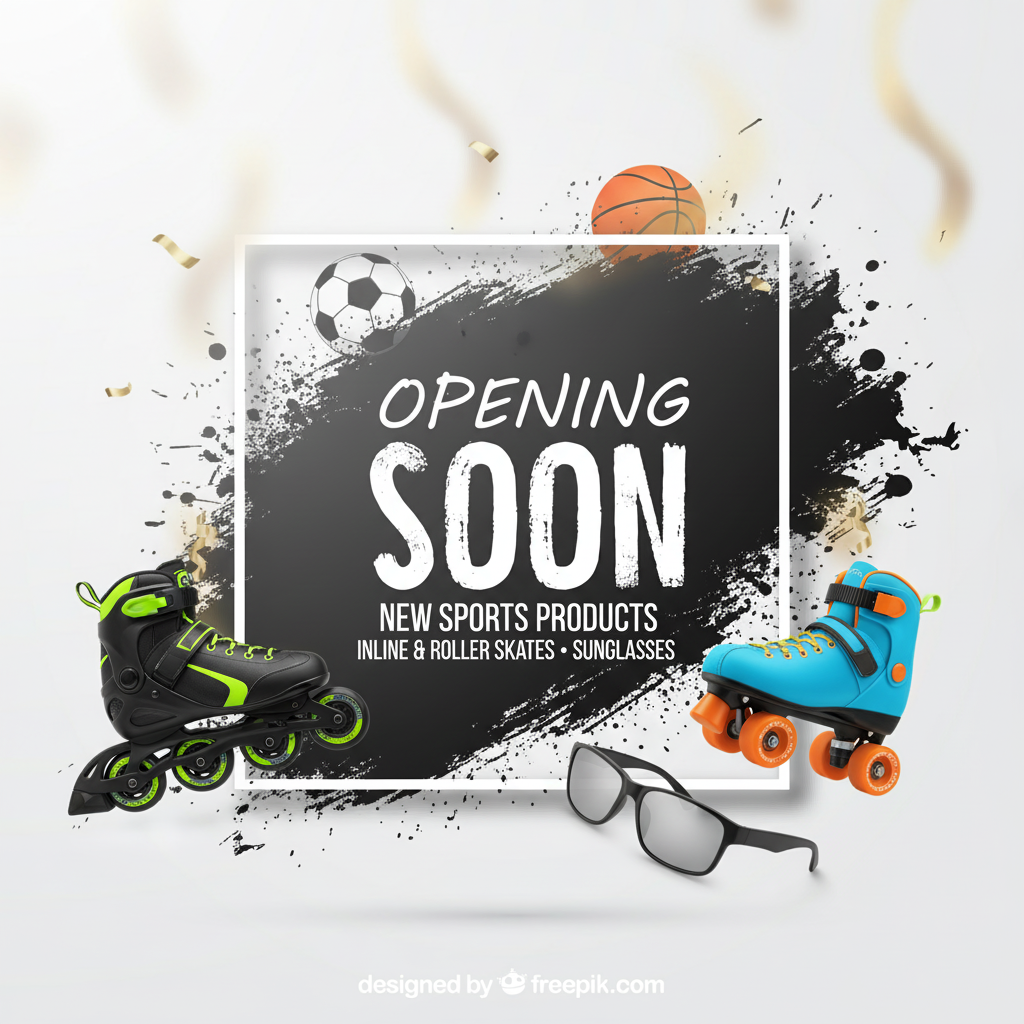
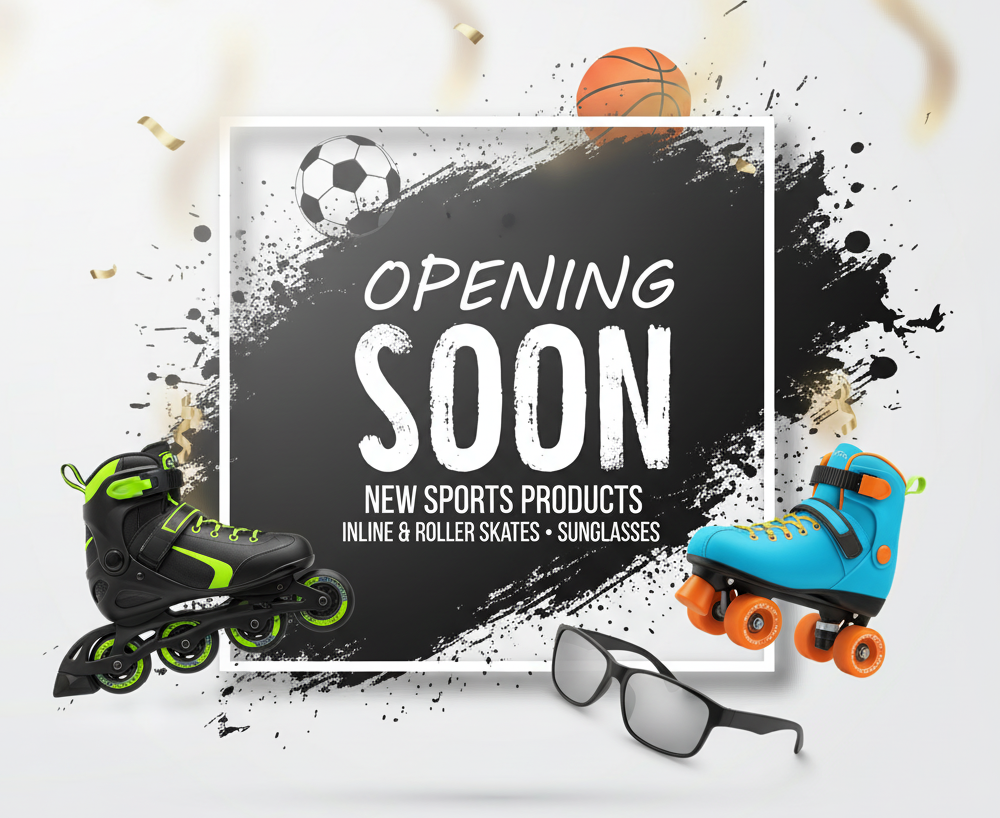
Merge pull request #14 from Dw-Innovationpvt/enhanced-navbar
Navbar Enhanced

Pull request: Navbar Enhanced
Navbar Enhanced, User Profile Enhanced

diff --git a/Frontend/src/components/Navbar.jsx b/Frontend/src/components/Navbar.jsx
@@ -203,49 +203,36 @@ export default function Navbar() {
       </div>
 
       {/* Navbar */}
-      <nav className="bg-white shadow-md px-4 md:px-12 flex justify-between items-center py-3 sticky top-0 z-50 font-[var(--font-raleway)]">
+      <nav className="bg-gradient-to-r from-blue-400 via-red-300 to-orange-200 shadow-md px-4 md:px-12 flex justify-between items-center py-3 sticky top-0 z-50 font-[var(--font-raleway)]">
         {/* Left Nav */}
         <div className="flex items-center gap-6">
           {/* Mobile Menu Button */}
           <HiMenu
-            className="text-3xl text-gray-800 md:hidden cursor-pointer hover:scale-110 transition-transform duration-200"
+            className="text-3xl text-gray-800 md:hidden cursor-pointer hover:scale-125 transition-transform duration-300"
             onClick={() => setMobileMenu(!mobileMenu)}
           />
 
           {/* Desktop Nav */}
-          <div className="hidden md:flex flex-wrap items-center gap-x-4 text-[16px] md:text-[17px] max-w-5xl tracking-wide">
-            <Link
-              href="/"
-              className={`${navLinkClass(
-                "/"
-              )} transition-all duration-300 hover:text-blue-600 hover:underline underline-offset-4`}
-            >
-              Home
-            </Link>
-            <Link
-              href="/inline-skates"
-              className={`${navLinkClass(
-                "/inline-skates"
-              )} transition-all duration-300 hover:text-blue-600 hover:underline underline-offset-4 `}
-            >
-              Professional Inline Skates
-            </Link>
-            <Link
-              href="/adjustable-inline-skates"
-              className={`${navLinkClass(
-                "/adjustable-inline-skates"
-              )} transition-all duration-300 hover:text-blue-600 hover:underline underline-offset-4`}
-            >
-              Adjustable Inline Skates
-            </Link>
-            <Link
-              href="/hockey-skates"
-              className={`${navLinkClass(
-                "/hockey-skates"
-              )} transition-all duration-300 hover:text-blue-600 hover:underline underline-offset-4`}
-            >
-              Roller / Quad Hockey Skates
-            </Link>
+          <div className="hidden md:flex flex-wrap items-center gap-x-6 text-[16px] md:text-[17px] max-w-5xl tracking-wide">
+            {[
+              { href: "/", label: "Home" },
+              { href: "/inline-skates", label: "Professional Inline Skates" },
+              {
+                href: "/adjustable-inline-skates",
+                label: "Adjustable Inline Skates",
+              },
+              { href: "/hockey-skates", label: "Roller / Quad Hockey Skates" },
+            ].map((link, idx) => (
+              <Link
+                key={idx}
+                href={link.href}
+                className={`${navLinkClass(
+                  link.href
+                )} transition-all duration-300  transform hover:!text-orange-400 hover:scale-100 hover:-translate-y-1 hover:font-bold`}
+              >
+                {link.label}
+              </Link>
+            ))}
 
             {/* Dropdown */}
             <div
@@ -253,7 +240,7 @@ export default function Navbar() {
               onMouseEnter={() => setShowDropdown(true)}
               onMouseLeave={() => setShowDropdown(false)}
             >
-              <button className="flex items-center ml-12 text-black gap-1 px-4 py-2 rounded-full transition-all duration-300 hover:text-blue-600 hover:bg-blue-50 group font-medium">
+              <button className="flex items-center ml-12 text-black gap-1 px-4 py-2 rounded-full transition-all duration-300 hover:text-white hover:scale-110 hover:-translate-y-1 font-bold">
                 Products
                 <ChevronDown className="h-4 w-4 transition-transform duration-300 group-hover:rotate-180" />
               </button>
@@ -262,62 +249,47 @@ export default function Navbar() {
                   initial={{ opacity: 0, y: -10 }}
                   animate={{ opacity: 1, y: 0 }}
                   transition={{ duration: 0.2 }}
-                  className="absolute top-10 left-0 bg-white w-60 shadow-xl border rounded-xl overflow-hidden z-50"
+                  className="absolute top-10 left-0 !bg-white w-60 shadow-xl border rounded-xl overflow-hidden z-50"
                 >
                   <Link
                     href="/accessories"
-                    className="block px-5 py-2 !text-black hover:bg-blue-100 hover:text-blue-600 transition"
+                    className="block px-5 py-2 !text-black hover:bg-blue-100 hover:!text-orange-400 transition-all duration-300 hover:font-semibold"
                   >
                     Accessories
                   </Link>
                   <Link
                     href="/product"
-                    className="block px-5 py-2 !text-black hover:bg-blue-100 hover:text-blue-600 transition"
+                    className="block px-5 py-2 !text-black hover:bg-blue-100 hover:!text-orange-400 transition-all duration-300 hover:font-semibold"
                   >
                     Products
                   </Link>
                 </motion.div>
               )}
             </div>
-            <Link
-              href="/workout-gear"
-              className={`${navLinkClass(
-                "/workout-gear"
-              )} transition-all duration-300 hover:text-blue-600 hover:underline underline-offset-4`}
-            >
-              Workout Gear
-            </Link>
-            <Link
-              href="/quad-skates"
-              className={`${navLinkClass(
-                "/quad-skates"
-              )} transition-all duration-300 hover:text-blue-600 hover:underline underline-offset-4`}
-            >
-              Quad Skates
-            </Link>
-            <Link
-              href="/baby-tenacity"
-              className={`${navLinkClass(
-                "/baby-tenacity"
-              )} transition-all duration-300 hover:text-blue-600 hover:underline underline-offset-4`}
-            >
-              Tenacity & Baby Skates
-            </Link>
-            <Link
-              href="/cycling"
-              className={`${navLinkClass(
-                "/cycling"
-              )} transition-all duration-300 hover:text-blue-600 hover:underline underline-offset-4`}
-            >
-              Cycling
-            </Link>
+
+            {[
+              { href: "/workout-gear", label: "Workout Gear" },
+              { href: "/quad-skates", label: "Quad Skates" },
+              { href: "/baby-tenacity", label: "Tenacity & Baby Skates" },
+              { href: "/cycling", label: "Cycling" },
+            ].map((link, idx) => (
+              <Link
+                key={idx}
+                href={link.href}
+                className={`${navLinkClass(
+                  link.href
+                )} transition-all duration-300 transform hover:!text-orange-400 hover:scale-100 hover:-translate-y-1 hover:font-bold`}
+              >
+                {link.label}
+              </Link>
+            ))}
 
             {isAdmin && (
               <Link
                 href="/admin-dashboard"
                 className={`${navLinkClass(
                   "/admin-dashboard"
-                )} transition-all duration-300 hover:text-blue-600 hover:underline underline-offset-4`}
+                )} transition-all bg-gradient-to-r from-orange-200 via-red-300 to-blue-200 ml-96 duration-300 transform hover:!text-white hover:scale-100 hover:-translate-y-1 hover:font-bold`}
               >
                 Admin Dashboard
               </Link>
@@ -326,7 +298,7 @@ export default function Navbar() {
         </div>
 
         {/* Right Icons */}
-        <div className="flex items-center gap-3 md:gap-5 pb-10 relative font-semibold">
+        <div className="flex items-center gap-3 md:gap-5 relative font-semibold">
           <div className="hidden md:block relative group">
             <input
               type="text"
@@ -337,7 +309,7 @@ export default function Navbar() {
               }}
               onBlur={() => setTimeout(() => setShowSuggestions(false), 150)}
               placeholder="Search products..."
-              className="rounded-full border border-gray-300 py-2.5 px-5 pr-12 text-sm w-80 outline-none text-gray-800 transition-all duration-300 focus:border-blue-400 focus:ring-2 focus:ring-blue-100 group-hover:border-blue-300"
+              className="rounded-full border border-gray-500 py-2.5 px-5 pr-12 text-sm w-80 outline-none !text-black transition-all duration-300 focus:border-blue-400 focus:ring-2 focus:ring-blue-100 group-hover:border-blue-300"
             />
 
             <button className="absolute top-1/2 -translate-y-1/2 right-3 text-gray-500 text-lg bg-blue-100 hover:bg-blue-200 transition-colors duration-300 p-1.5 rounded-full">
@@ -408,7 +380,7 @@ export default function Navbar() {
                 transition={{ duration: 0.2 }}
                 className="dropdown-menu absolute right-0 mt-3 w-60 rounded-2xl shadow-2xl z-50 overflow-hidden bg-white border border-gray-100"
               >
-                <div className="px-3 py-3 bg-gradient-to-r from-gray-50 to-white border-b border-gray-100">
+                <div className="px-3 py-3 bg-gradient-to-r from-blue-200 via-red-300 to-yellow-200 border-b border-gray-100">
                   <h3 className="text-sm font-bold text-gray-700 tracking-wider">
                     Account Access
                   </h3>

diff --git a/Frontend/src/app/userProfile/page.jsx b/Frontend/src/app/userProfile/page.jsx
@@ -3,6 +3,7 @@
 import { useEffect, useState } from "react";
 import { useRouter } from "next/navigation";
 import Footer from "@/components/Footer";
+import { LogOut, User, Mail, Phone } from "lucide-react";
 
 export default function ProfilePage() {
   // Import additional icons
@@ -142,63 +143,72 @@ export default function ProfilePage() {
 
 {/* Profile Tab */}
 {activeTab === "profile" && (
-  <div className="bg-gradient-to-tr from-white via-gray-100 to-white p-8 rounded-3xl shadow-xl max-w-3xl mx-auto transition-all duration-300">
-    {/* Header */}
-    <div className="flex flex-col md:flex-row items-center md:items-start gap-6 mb-8">
-      {/* Avatar with pulse animation */}
-      <div className="relative w-20 h-20 rounded-full bg-gradient-to-br from-orange-400 to-yellow-400 flex items-center justify-center text-3xl font-extrabold text-white shadow-lg animate-pulse-slow">
-        {user?.name?.charAt(0) || "U"}
+  <div className="bg-gradient-to-tr from-gray-50 via-white to-gray-50 p-10 rounded-3xl shadow-2xl max-w-4xl mx-auto transition-all duration-500">
+    
+    {/* Header Section */}
+    <div className="flex flex-col md:flex-row items-center md:items-start gap-8 mb-10">
+      
+      {/* Avatar with Pulse + Border */}
+      <div className="relative w-28 h-28 rounded-full bg-gradient-to-br from-orange-400 to-yellow-400 flex items-center justify-center text-5xl font-extrabold text-white shadow-xl animate-pulse-slow border-4 border-white">
+        {user?.name?.charAt(0).toUpperCase() || "U"}
       </div>
+      
       {/* User Info */}
       <div className="text-center md:text-left">
-        <h2 className="text-2xl md:text-3xl font-bold text-gray-800 transition-transform duration-300 hover:scale-105">
+        <h2 className="text-3xl font-bold text-gray-800 hover:text-orange-500 transition-colors duration-300">
           {user?.name || "Unknown User"}
         </h2>
-        <p className="text-gray-600 mt-1">{user?.email || "No email provided"}</p>
+        <p className="text-gray-600 mt-2 flex items-center justify-center md:justify-start gap-2">
+          <Mail className="w-4 h-4 text-gray-500" /> {user?.email || "No email provided"}
+        </p>
         {user?.phone && (
-          <p className="text-gray-500 mt-1 text-sm">Phone: {user.phone}</p>
+          <p className="text-gray-500 mt-1 flex items-center gap-2 text-sm">
+            <Phone className="w-4 h-4 text-gray-400" /> {user.phone}
+          </p>
         )}
       </div>
     </div>
 
-    <hr className="border-gray-300 mb-8" />
+    <hr className="border-gray-300 mb-10" />
 
     {/* User Details Grid */}
-    <div className="grid grid-cols-1 md:grid-cols-2 gap-6">
-      {["Full Name", "Email Address", "Phone Number"].map((label, index) => (
+    <div className="grid grid-cols-1 md:grid-cols-2 gap-8">
+      {[
+        { label: "Full Name", icon: User, value: user?.name || "Not Provided" },
+        { label: "Email Address", icon: Mail, value: user?.email || "Not Provided" },
+        { label: "Phone Number", icon: Phone, value: user?.phone || "Not Provided" },
+      ].map((field, index) => (
         <div
           key={index}
-          className="bg-white p-5 rounded-xl shadow-sm hover:shadow-lg transition-transform duration-300 hover:-translate-y-1 hover:scale-[1.01]"
+          className="bg-white p-6 rounded-2xl shadow-lg hover:shadow-2xl transition-transform duration-300 hover:-translate-y-1"
         >
-          <label className="block text-sm font-medium mb-2 text-gray-600">
-            {label}
-          </label>
+          <div className="flex items-center gap-3 mb-3 text-orange-500">
+            <field.icon className="w-5 h-5" />
+            <span className="font-medium text-gray-700">{field.label}</span>
+          </div>
           <input
-            value={
-              label === "Full Name"
-                ? user?.name || "Not Provided"
-                : label === "Email Address"
-                ? user?.email || "Not Provided"
-                : user?.phone || "Not Provided"
-            }
+            type="text"
+            value={field.value}
             readOnly
-            className="w-full p-3 border border-gray-200 rounded-lg bg-gray-50 text-gray-700 font-medium focus:ring-2 focus:ring-blue-300 transition-all duration-200"
+            className="w-full p-3 border border-gray-200 rounded-lg bg-gray-50 text-gray-700 font-medium focus:ring-2 focus:ring-orange-300 transition-all duration-200"
           />
         </div>
       ))}
     </div>
 
     {/* Logout Button */}
-    <div className="mt-8 flex justify-center md:justify-start">
+    <div className="mt-10 flex justify-center md:justify-start">
       <button
         onClick={handleLogout}
-        className="bg-red-500 hover:bg-red-600 text-white px-6 py-3 rounded-xl font-semibold shadow-lg transition-all duration-200 hover:scale-[1.05] active:scale-95 hover:shadow-2xl"
+        className="flex items-center gap-2 bg-red-500 hover:bg-red-600 text-white px-7 py-3 rounded-2xl font-semibold shadow-lg transition-all duration-200 hover:scale-[1.05] active:scale-95"
       >
+        <LogOut className="w-5 h-5" />
         Logout
       </button>
     </div>
   </div>
 )}
+
 
 
 

diff --git a/Frontend/src/app/checkout/page.jsx b/Frontend/src/app/checkout/page.jsx
@@ -588,7 +588,7 @@ export default function CheckoutPage() {
               <div className="bg-gray-50 mt-4 p-3 rounded">
                 <div className="flex items-center text-sm text-green-600 mb-1">
                   <svg
-                    className="w-4 h-4 mr-1"
+                    className="w-4 h-4 mr-2"
                     fill="none"
                     stroke="currentColor"
                     viewBox="0 0 24 24"
@@ -605,7 +605,7 @@ export default function CheckoutPage() {
                 <div className="flex items-center justify-between text-sm text-green-600 mb-2">
                   <div className="flex items-center">
                     <svg
-                      className="w-4 h-4 mr-2 mb-4 flex-shrink-0"
+                      className="w-4 h-4 mr-2 flex-shrink-0"
                       fill="none"
                       stroke="currentColor"
                       viewBox="0 0 24 24"
@@ -674,7 +674,7 @@ export default function CheckoutPage() {
     {/* Header */}
     <div className="flex items-center justify-between mb-4">
       <div className="flex items-center gap-2">
-        <GraduationCap className="w-6 h-6 text-green-600" />
+        <GraduationCap className="w-6 h-6 text-orange-600" />
         <h3 className="text-lg font-semibold text-gray-800">
           Apply Academic Discount
         </h3>
@@ -739,7 +739,7 @@ export default function CheckoutPage() {
         </button>
         <button
           type="submit"
-          className="px-4 py-2 bg-green-600 text-white rounded-lg hover:bg-green-700 transition shadow-md"
+          className="px-4 py-2 bg-gradient-to-r from-orange-400 via-red-300 to-blue-300 text-black rounded-lg hover:bg-green-700 transition shadow-md"
         >
           Apply
         </button>

diff --git a/Frontend/src/app/globals.css b/Frontend/src/app/globals.css
@@ -111,3 +111,10 @@ a {
   animation: fadeIn 0.4s ease-out;
 }
 
+@keyframes pulse-slow {
+  0%, 100% { transform: scale(1); opacity: 1; }
+  50% { transform: scale(1.05); opacity: 0.8; }
+}
+.animate-pulse-slow {
+  animation: pulse-slow 3s infinite ease-in-out;
+}